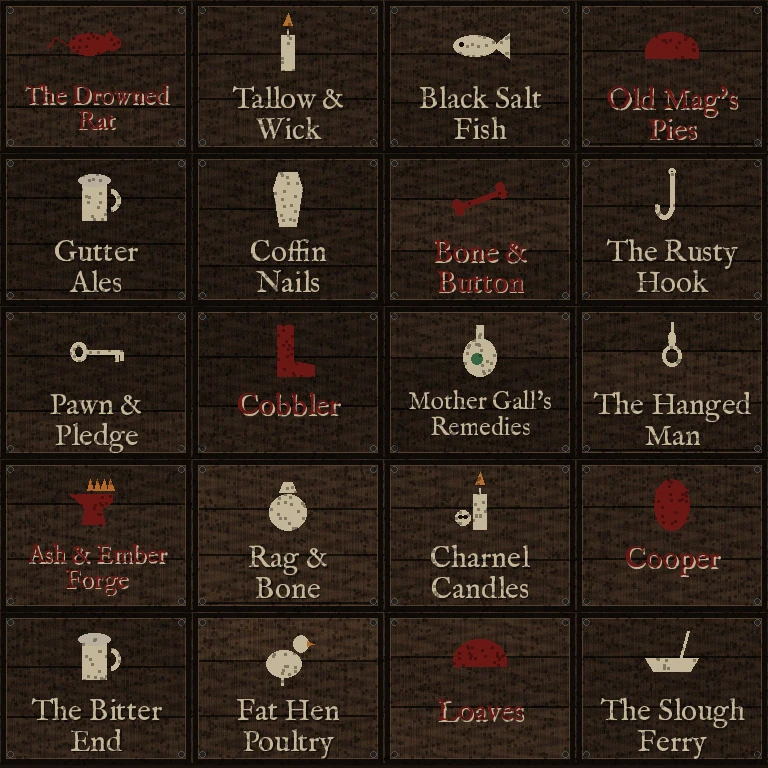
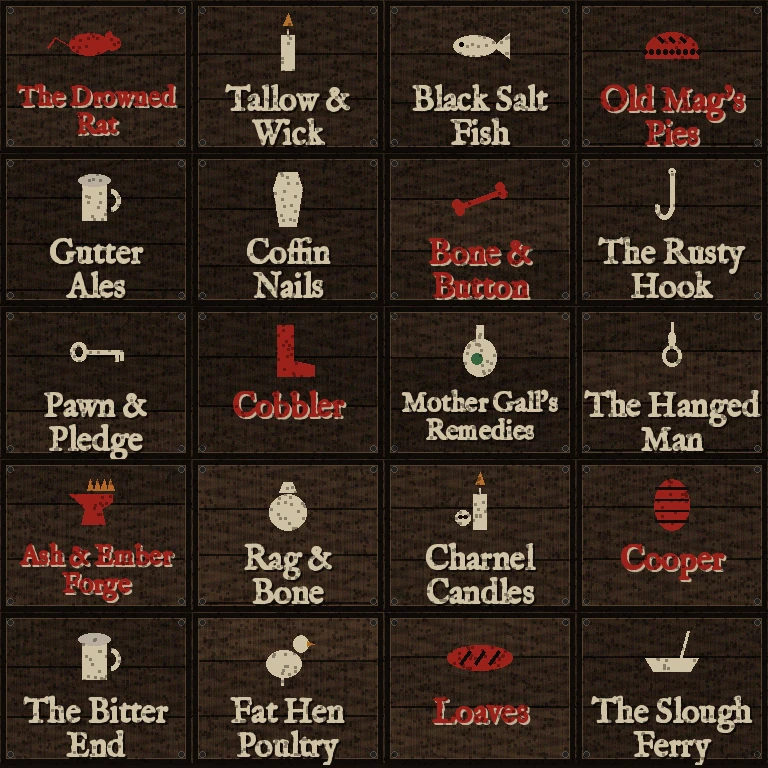
Phobos, critics round 1: his V round every tower's head, window frames in dark timber, signs half again as big with bold lettering and their own pictures, long soot runs down what's tall
Claude-Session: https://claude.ai/code/session_01YbmsCzz39BaF5jK1eSxFjC

diff --git a/src/core/phobos-build.js b/src/core/phobos-build.js
@@ -176,7 +176,8 @@ const SIGNS = 20;
 function shopSign(K, h, P, fy, fz, i) {
   // (Its chains from the bracket's two ends, by the wall and at its tip, never from along it: a cord hung from the middle of
   // a bar is a T. The V/T rule.)
-  const f = h.front, lx = -DOOR - 0.9, hw = 0.38, zc = fz + f * (0.08 + hw), y0 = fy + 2.45, y1 = fy + 3.05, t = 0.045, tip = fz + f * (0.1 + 2 * hw);
+  // (Half again as big as it was: its name read from across the street, the critics.)
+  const f = h.front, lx = -DOOR - 0.9, hw = 0.56, zc = fz + f * (0.08 + hw), y0 = fy + 2.35, y1 = fy + 3.23, t = 0.05, tip = fz + f * (0.1 + 2 * hw);
   K.beam('iron', P(lx, fy + 3.3, fz), P(lx, fy + 3.3, tip), 0.05);
   for (const zz of [fz + f * 0.1, tip]) K.beam('iron', P(lx, fy + 3.3, zz), P(lx, y1, zz), 0.012);
   const [bx, , bz] = P(lx, 0, zc); K.box('dark:wood', bx, y0 - 0.03, bz, t + 0.01, y1 - y0 + 0.06, hw + 0.03, h.yaw, { collide: false });
@@ -296,7 +297,7 @@ function houseNear(K, h) {
   for (const w of wins) {
     const { st, sd, q, wx, wy, ww, wh, lit } = w, wz = q * (h.hz + 0.05), d = q > 0 ? 1 : -1, N = [q * s, 0, q * c], fw = ww + 0.1;
     const frame = (zz, nn, rev) => {
-      const Q = (x0, y0, x1, y1) => (rev ? K.quad('wood', P(x0, y0, zz), P(x1, y0, zz), P(x1, y1, zz), P(x0, y1, zz), nn) : K.quad('wood', P(x1, y0, zz), P(x0, y0, zz), P(x0, y1, zz), P(x1, y1, zz), nn));
+      const Q = (x0, y0, x1, y1) => (rev ? K.quad('dark:wood', P(x0, y0, zz), P(x1, y0, zz), P(x1, y1, zz), P(x0, y1, zz), nn) : K.quad('dark:wood', P(x1, y0, zz), P(x0, y0, zz), P(x0, y1, zz), P(x1, y1, zz), nn));   // (dark: in plain wood, lit by the lamps, the frames glowed orange, the critics)
       Q(wx - d * fw, wy - 0.12, wx + d * fw, wy); Q(wx - d * fw, wy + wh, wx + d * fw, wy + wh + 0.1);
       Q(wx - d * fw, wy, wx - d * ww, wy + wh); Q(wx + d * ww, wy, wx + d * fw, wy + wh);
     };
@@ -588,7 +589,8 @@ export function tower(K, layer, x, z, r, h, roof, o = {}) {
   if (roof) { if (r < 9 && hash2(id, 11) < 0.08) K.cone(roof, x, y + h, z, r + 0.5, r * (o.steep ?? 2.4) * 1.8, sides, turn); else K.cone(roof, x, y + h, z, r + (r >= 8 ? 2.4 : 0.8), r * (o.steep ?? 2.4), sides, turn); }
   else {
     if (o.shell) cap();
-    for (let i = 0; i < 8; i++) { const a = i / 8 * TAU; K.box(layer, x + Math.cos(a) * (r - 0.5), y + h, z + Math.sin(a) * (r - 0.5), 0.8, 1.6, 0.5, -a, { collide: false }); }
+    // (His V cut in each: swallowtail merlons round its head, the notch along the wall. On a phone, plain.)
+    for (let i = 0; i < 8; i++) { const a = i / 8 * TAU, mx = x + Math.cos(a) * (r - 0.5), mz = z + Math.sin(a) * (r - 0.5); if (K.lean) K.box(layer, mx, y + h, mz, 0.8, 1.6, 0.5, -a, { collide: false }); else K.vee(layer, mx, y + h, mz, Math.min(1.4, r * 0.18), 2.0, 0.5, -a + Math.PI / 2, 0.5); }
     if (hash2(id, 12) < 0.45) { K.drum('iron', x, y + h, z, r * 0.22, 1.2, 8, { r2: r * 0.34, open: true, collide: false }); fire(K, x, y + h + 0.6, z, r * 0.24, r * 0.62); }
   }
   if (K.lean || o.plain) return y + h;

diff --git a/src/gfx/materials.js b/src/gfx/materials.js
@@ -631,6 +631,10 @@ fn flatMaterial(id: u32, p: vec3f, t: f32) -> vec4f {
         // Soot down from every ledge, in four-metre runs; heavier toward the city's smoke.
         let st = p2W(vec2f(along / 4.0, -p.y / 4.0), 280, 4.0, dist).r;
         albedo *= 1.0 - 0.72 * st * smoothstep(0.3, 0.6, mid.g + 0.15);
+        // And on what's tall, the castle's towers and curtains above all, long runs of soot and rain from far up, fourteen
+        // metres across and thirty-six down a repeat: a drum a hundred metres high streaked the length of it, not ruled.
+        let tall = p2W(vec2f(along / 14.0, -p.y / 36.0), 280, 14.0, dist).r;
+        albedo *= 1.0 - 0.5 * tall * smoothstep(0.3, 0.6, big.r + 0.12);
         // Cracks, now and then.
         let ck = p2W(vec2f(along / 3.0, -p.y / 3.0) + 0.37, 285, 3.0, dist).r;
         albedo *= 1.0 - 0.5 * ck * smoothstep(0.62, 0.8, big.a);

diff --git a/tools/phobos/textures/signs.py b/tools/phobos/textures/signs.py
@@ -30,7 +30,7 @@ SIGNS = [
     ("Ash & Ember|Forge", "anvil"), ("Rag &|Bone", "sack"), ("Charnel|Candles", "skullcandle"), ("Cooper", "barrel"),
     ("The Bitter|End", "tankard"), ("Fat Hen|Poultry", "hen"), ("Loaves", "loaf"), ("The Slough|Ferry", "boat"),
 ]
-CREAM, BLOOD, DARK = (214, 198, 166), (118, 26, 22), (26, 18, 14)
+CREAM, BLOOD, DARK = (226, 210, 178), (168, 38, 30), (20, 14, 11)
 
 
 def board(rng, w, h):
@@ -75,7 +75,9 @@ def picture(d, kind, cx, cy, s, ink):
         E([cx - s * 0.75, cy - s * 0.12, cx - s * 0.6, cy + s * 0.03], fill=DARK)
     elif kind == "pie":
         d.chord([cx - s, cy - s * 0.5, cx + s, cy + s * 0.9], 180, 360, fill=ink); d.rectangle([cx - s, cy + s * 0.2, cx + s, cy + s * 0.45], fill=ink)
-        for k in (-0.4, 0, 0.4): L([(cx + s * k - 0.12 * s, cy - s * 0.05), (cx + s * k + 0.12 * s, cy - s * 0.05)], 2)
+        # (Its crust's vents cut dark, and a crimped rim: a pie, not the loaf's dome.)
+        for k in (-0.4, 0, 0.4): d.line([(cx + s * k - 0.1 * s, cy - s * 0.32), (cx + s * k + 0.1 * s, cy - s * 0.12)], fill=DARK, width=3)
+        for k in range(9): E([cx - s + k * s * 0.25 - s * 0.08, cy + s * 0.12, cx - s + k * s * 0.25 + s * 0.08, cy + s * 0.3], fill=DARK)
     elif kind == "tankard":
         d.rectangle([cx - s * 0.5, cy - s * 0.6, cx + s * 0.4, cy + s * 0.8], fill=ink); d.arc([cx + s * 0.2, cy - s * 0.35, cx + s * 0.9, cy + s * 0.45], 270, 90, fill=ink, width=5)
         E([cx - s * 0.65, cy - s * 0.9, cx + s * 0.55, cy - s * 0.45], fill=(200, 190, 170))
@@ -106,13 +108,15 @@ def picture(d, kind, cx, cy, s, ink):
         E([cx - s * 0.7, cy - s * 0.4, cx + s * 0.7, cy + s * 0.95], fill=ink); d.polygon([(cx - s * 0.3, cy - s * 0.45), (cx + s * 0.3, cy - s * 0.45), (cx + s * 0.15, cy - s * 0.85), (cx - s * 0.15, cy - s * 0.85)], fill=ink)
     elif kind == "barrel":
         E([cx - s * 0.65, cy - s * 0.95, cx + s * 0.65, cy + s * 0.95], fill=ink)
-        for k in (-0.55, 0.55): L([(cx - s * 0.62, cy + s * k), (cx + s * 0.62, cy + s * k)], 3)
+        # (Its hoops cut dark, so it reads as a cask and not a red egg. Hoops only: staves across them were a grid of crosses.)
+        for k in (-0.6, -0.2, 0.2, 0.6): d.line([(cx - s * 0.6, cy + s * k), (cx + s * 0.6, cy + s * k)], fill=DARK, width=3 if abs(k) > 0.5 else 2)
     elif kind == "hen":
         E([cx - s * 0.8, cy - s * 0.3, cx + s * 0.5, cy + s * 0.7], fill=ink); E([cx + s * 0.2, cy - s * 0.85, cx + s * 0.75, cy - s * 0.2], fill=ink)
         d.polygon([(cx + s * 0.72, cy - s * 0.6), (cx + s * 1.0, cy - s * 0.5), (cx + s * 0.72, cy - s * 0.42)], fill=(190, 120, 40)); L([(cx - s * 0.2, cy + s * 0.65), (cx - s * 0.2, cy + s)], 3)
     elif kind == "loaf":
-        d.chord([cx - s, cy - s * 0.7, cx + s, cy + s * 0.9], 180, 360, fill=ink); d.rectangle([cx - s, cy + s * 0.1, cx + s, cy + s * 0.3], fill=ink)
-        for k in (-0.45, 0, 0.45): L([(cx + s * k - 0.12 * s, cy - s * 0.4), (cx + s * k + 0.1 * s, cy - s * 0.05)], 3)
+        # (A long loaf lying, scored three times dark: not the pie's round.)
+        E([cx - s * 1.2, cy - s * 0.45, cx + s * 1.2, cy + s * 0.45], fill=ink)
+        for k in (-0.55, 0, 0.55): d.line([(cx + s * k - 0.18 * s, cy + s * 0.25), (cx + s * k + 0.18 * s, cy - s * 0.25)], fill=DARK, width=3)
     elif kind == "boat":
         d.polygon([(cx - s, cy), (cx + s, cy), (cx + s * 0.7, cy + s * 0.5), (cx - s * 0.7, cy + s * 0.5)], fill=ink); L([(cx + s * 0.6, cy - s * 1.0), (cx + s * 0.3, cy + s * 0.1)], 3)
 
@@ -124,7 +128,7 @@ def cell(i, name, kind, w, h):
     ink = CREAM if i % 3 else BLOOD
     edge = DARK if ink == CREAM else (210, 190, 160)
     lines = name.split("|")
-    fs = 30 if max(len(t) for t in lines) < 11 else 25
+    fs = 33 if max(len(t) for t in lines) < 11 else 27
     f = ImageFont.truetype(FONT, fs)
     pic_h = h * 0.42
     picture(d, kind, w / 2, 14 + pic_h / 2, pic_h * 0.42, ink)
@@ -132,8 +136,9 @@ def cell(i, name, kind, w, h):
     for t in lines:
         bb = d.textbbox((0, 0), t, font=f)
         x = (w - (bb[2] - bb[0])) / 2 - bb[0]
-        d.text((x + 1.5, ty + 1.5), t, font=f, fill=edge)
-        d.text((x, ty), t, font=f, fill=ink)
+        # (Bold: the letters stroked with their own paint, and a dark shadow under, to read from across the street.)
+        d.text((x + 2, ty + 2), t, font=f, fill=edge, stroke_width=1, stroke_fill=edge)
+        d.text((x, ty), t, font=f, fill=ink, stroke_width=1, stroke_fill=ink)
         ty += fs * 1.02
     # (Weather: the paint flaked here and there, the whole a little dulled.)
     a = np.asarray(im, np.float32)
